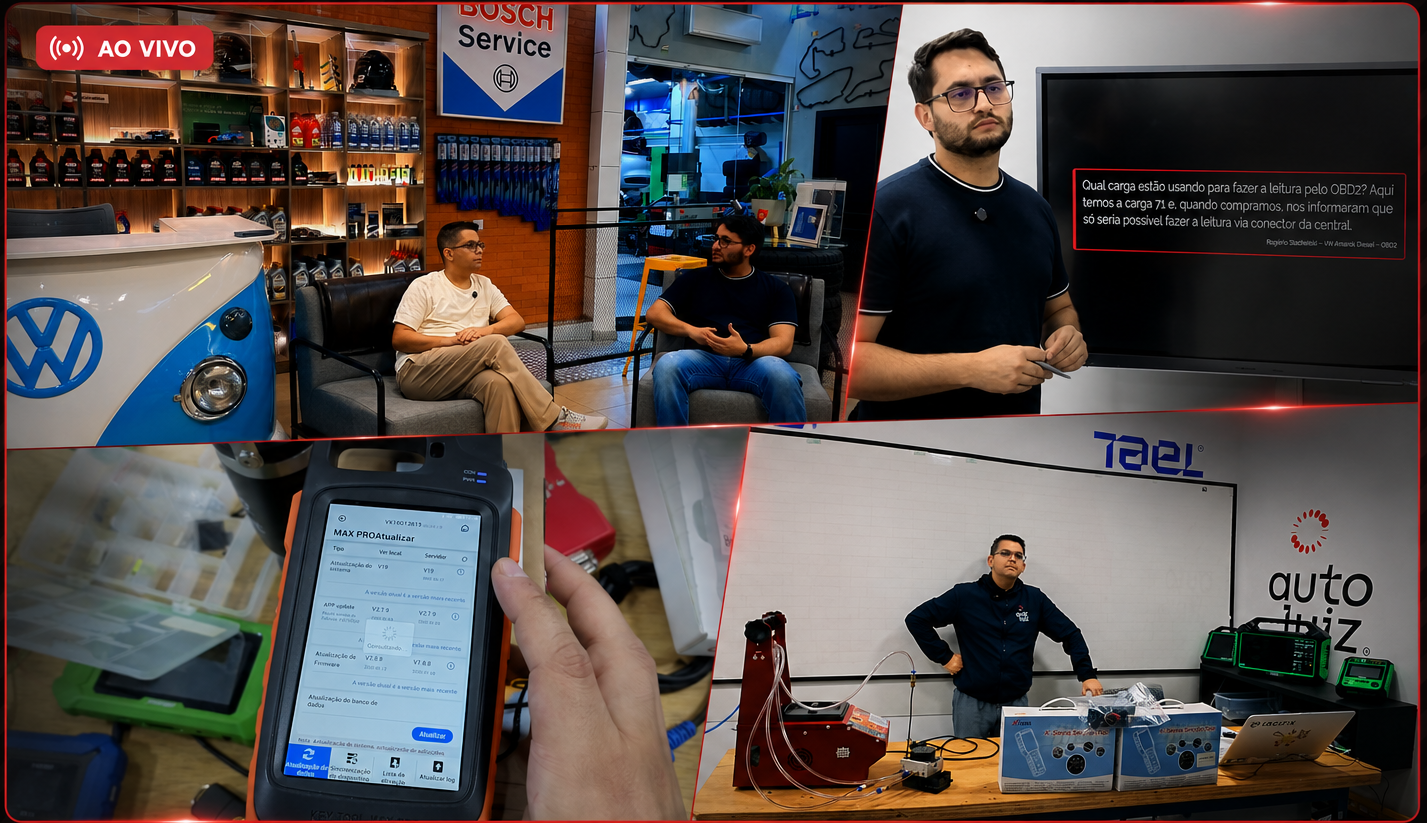
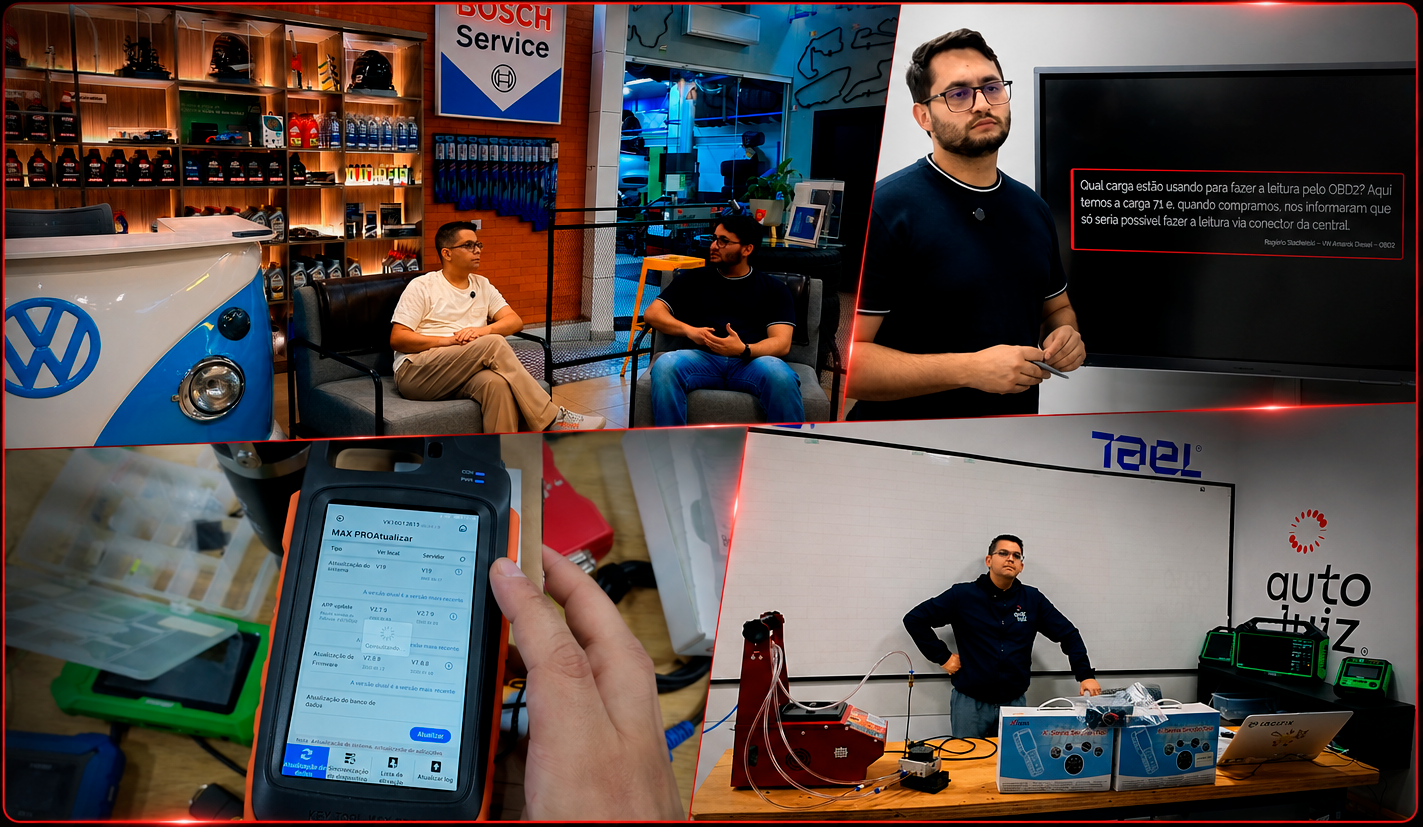
Alterações realizadas na parte da esteira de conteudos

diff --git a/style.css b/style.css
@@ -219,7 +219,17 @@ section{padding-block:var(--sec);position:relative}
   opacity:.85;
 }
 
-/* AO VIVO / PRESENCIAL — cards maiores em destaque */
+/*esteira de coteudos*/
+
+.esteira-titulo{
+    display: inline-block;
+    color: #fff;
+    padding: 10px 22px;
+    border-radius: 8px;
+    margin-bottom: 14px;
+    filter: drop-shadow(0 0 8px rgba(255, 3, 3, 0.582));
+} 
+
 .live {
      position: relative;
     width: 100%;
@@ -232,6 +242,28 @@ section{padding-block:var(--sec);position:relative}
     background-size: cover;
     background-position: center;
     background-repeat: no-repeat;
+}
+
+.duvidas-titulo{
+    white-space: nowrap;
+}
+
+/* duvidas-titulo MOBILE */
+@media(max-width:600px){
+    .duvidas-titulo{
+        white-space: normal;
+        max-width: 320px;
+        margin-left: auto;
+        margin-right: auto;
+        font-size: clamp(1.45rem, 7vw, 1.9rem);
+        line-height: 1.08;
+        text-align: center;
+    }
+
+    .duvidas-titulo span{
+        display: block;
+        margin-top: 3px;
+    }
 }
 
 .live-badge{position:absolute;top:14px;left:14px;z-index:2;background:var(--red);color:#fff;font-family:'Montserrat',sans-serif;font-weight:800;font-size:.68rem;letter-spacing:.08em;padding:6px 14px;border-radius:999px;text-transform:uppercase}
@@ -901,10 +933,7 @@ section{padding-block:var(--sec);position:relative}
 }
 
 /*mobile dos cards de o que está incluso*/
-/* =========================================================
-   MOBILE — ACCORDIONS DO "O QUE ESTÁ INCLUSO"
-========================================================= */
-
+/* MOBILE — ACCORDIONS DO "O QUE ESTÁ INCLUSO"*/
 @media (max-width: 700px){
 
   .offer-body{

diff --git a/index.html b/index.html
@@ -86,7 +86,7 @@
     <div class="section-head">
       <div class="eyebrow">Trilha de conteúdo</div>
       <h2>Do zero até a prática</h2>
-      <p class="lead tight">Não é procedimento decorado.</p> <!--possivel alteração-->
+      <p class="lead tight">Não é procedimento decorado.</p> 
       <p class="lead tight">É base pra programar qualquer módulo que chegar na bancada.</p>
     </div>
     
@@ -111,16 +111,15 @@
   <div class="wrap">
     <div class="section-head center">
       <div class="eyebrow">Bônus incluso</div>
-      <h2>Esteira de conteúdos</h2>
-      <h2>suas dúvidas <span>Ao vivo</span></h2>
-      <p class="lead tight" style="margin-inline:auto">Lives periódicas onde a equipe responde as melhores perguntas trazidas pelos próprios alunos.</p>
+      <h2 class="esteira-titulo">Esteira de conteúdos</h2>
+      <h2 class="duvidas-titulo">Suas dúvidas <span>respondidas</span></h2>
     </div>
     
     <div class="live" style="max-width:760px;margin:0 auto">
       
       <div class="live-grad">
-          <div class="live-title">Perguntas reais, respondidas na prática</div>
-        <div class="live-foot"><b>Ao vivo</b> · direto com a equipe AutoLuiz</div>
+          <div class="live-title"> Deixe sua dúvida na nossa comunidade</div>
+        <div class="live-foot">Nossos instrutores responderão em vídeos</div>
       </div>
     </div>
     
